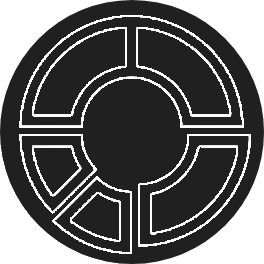
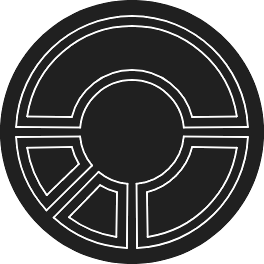
ZoC 1.1.1

diff --git a/myplugins/Zone.of.Control/README.md b/myplugins/Zone.of.Control/README.md
@@ -3,6 +3,8 @@
 
 **Author: [Timeout](https://github.com/LixiChronikouOriou)**
 
+**Thanks**: Xobes
+
 #### Introduction ####
 In vanilla, tributing human space is a bit tedious because there are no mechanisms for making peace with the factions. The only systems which don't cause issues are the Pirates' ones. To tribute the Free Worlds one has to save-edit afterwards, for tributing Republic and Syndicate one has to use the phases during the main campaign to profit from the reputation reset afterwards. Independent systems like Men cause problems with neutral mission NPCs, so one has to save-edit here, too. Also the monastery planets New Tibet and Harmony cannot be tributed in vanilla, causing ugly spots on the conquest map.
 
@@ -34,6 +36,7 @@ Has individual dialogue boxes for each of the following situations.
 
 | Date | Version | Comment |
 |------|---------|---------|
+| 2024-12-31 | 1.1.1 | Icon was redesigned by Xobes. |
 | 2025-09-07 | 1.1.0 | Tarazed will become independent as the *Commonwealth* after the main campaign, if it hasn't joined the FW. Buffed Commonwealth defense. Plus some maintenance stuff. |
 | 2025-08-13 | 1.0.1 | Added missing Deneb system. Added militia reputation to be restored after Republic tributed. Now set new reputation after conquest only to 1, if the player's faction reputation really has become smaller than 1. Resized icon. |
 | 2025-08-09 | 1.0.0 | Initial release. |
